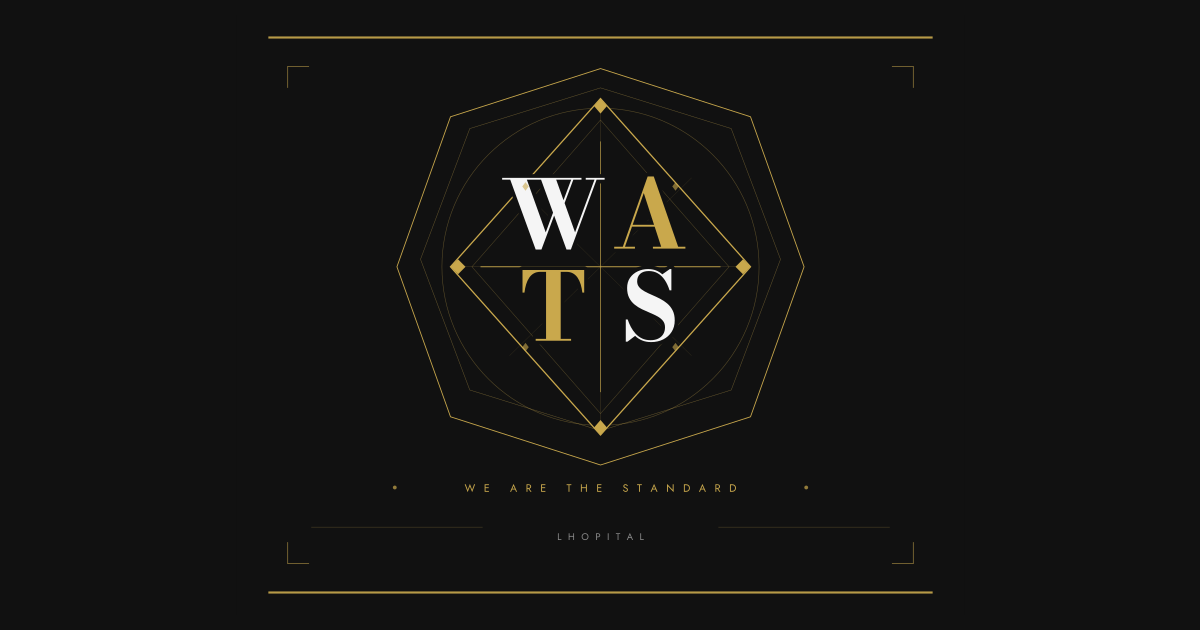
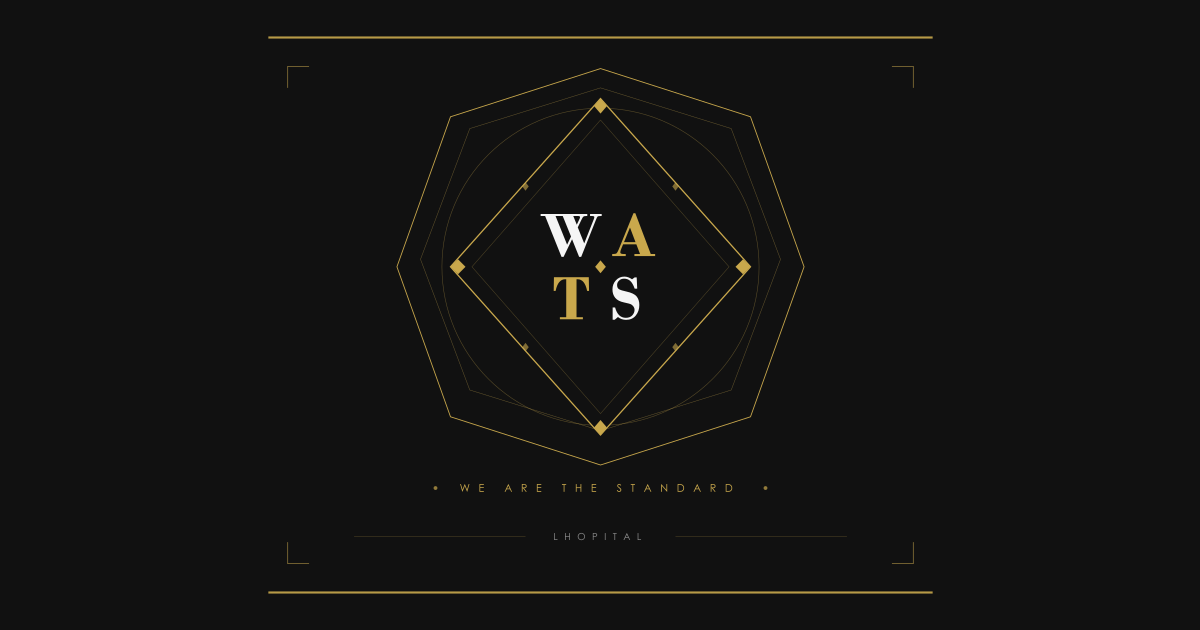
Usar el monograma WATS v3 (wats_monogram_lhopital_v3_contornos)
- public/brand/wats-seal.svg pasa a ser la v3 de Cloudinary, letras en contornos
- Los trazos del hero se extraen de ese SVG (scripts/build-wats-paths.cjs)
- Sello en hero y en Un mismo oficio con la geometría v3: sin cruces, diamante central
- Imagen Open Graph regenerada; se quitan opentype.js y fuentes de fontsource

Changed region(s): [[0.4008, 0.2714, 0.5858, 0.5429], [0.37, 0.754, 0.6167, 0.7841], [0.4625, 0.8444, 0.5242, 0.8746]]

diff --git a/src/lib/wats-paths.ts b/src/lib/wats-paths.ts
@@ -1,9 +1,9 @@
-// Generated by scripts/build-wats.cjs (opentype.js, Bodoni Moda 700 / Jost 400). Do not edit by hand.
+// Generated by scripts/build-wats-paths.cjs from public/brand/wats-seal.svg. Do not edit by hand.
 export const WATS_PATHS = {
-  "W": "M284.89 218.88L279.48 218.88L255.76 153.72L248.19 153.72L248.19 152L322.25 152L322.25 153.72L314.63 153.72L306.49 175.54L316.26 202.86L334.39 153.72L326.21 153.72L326.21 152L343.85 152L343.85 153.72L336.33 153.72L312.35 218.88L308.25 218.88L296.73 187.20L284.89 218.88ZM288.89 202.86L295.71 184.47L284.54 153.72L271.29 153.72L288.89 202.86ZM305.48 172.81L312.65 153.72L298.66 153.72L305.48 172.81Z",
-  "A": "M384.00 150.72L389.72 150.72L412.47 216.28L419.24 216.28L419.24 218L388.93 218L388.93 216.28L396.63 216.28L390.55 197.54L369.39 197.54L362.83 216.28L372.16 216.28L372.16 218L352.76 218L352.76 216.28L360.85 216.28L384.00 150.72ZM370.01 195.82L389.98 195.82L380.39 166.17L370.01 195.82Z",
-  "T": "M312.54 304L279.50 304L279.50 302.28L289.18 302.28L289.18 239.72L283.86 239.72Q280.34 239.72 277.76 241.17Q275.19 242.62 273.43 245.24Q271.67 247.86 270.59 251.40Q269.51 254.94 269.03 259.12L269.03 259.12L267.22 259.12L267.22 238L324.78 238L324.78 259.12L323.06 259.12Q322.58 254.94 321.50 251.40Q320.42 247.86 318.66 245.24Q316.90 242.62 314.33 241.17Q311.75 239.72 308.23 239.72L308.23 239.72L302.86 239.72L302.86 302.28L312.54 302.28L312.54 304Z",
-  "S": "M387.32 305.28L387.32 305.28Q382.44 305.28 378.74 303.71Q375.04 302.15 372.32 299.47L372.32 299.47L365.19 304.88L363.60 304.88L363.60 284.16L365.36 284.16Q366.55 287.76 368.38 291.22Q370.20 294.67 372.76 297.44Q375.31 300.22 378.74 301.87Q382.17 303.52 386.70 303.52L386.70 303.52Q390.88 303.52 393.92 302.02Q396.96 300.52 398.58 297.82Q400.21 295.11 400.21 291.46L400.21 291.46Q400.21 287.90 398.30 285.48Q396.38 283.06 393.24 281.32Q390.09 279.58 386.31 278.02Q382.52 276.46 378.76 274.65Q375 272.85 371.83 270.27Q368.66 267.70 366.75 263.94Q364.84 260.18 364.84 254.72L364.84 254.72Q364.84 249.22 367.56 245.28Q370.29 241.34 374.78 239.23Q379.27 237.12 384.42 237.12L384.42 237.12Q388.33 237.12 391.70 238.37Q395.06 239.63 397.70 242.05L397.70 242.05L404.70 237.12L406.15 237.12L406.15 256.96L404.44 256.96Q402.68 251.38 399.97 247.35Q397.26 243.32 393.55 241.15Q389.83 238.97 385.08 238.97L385.08 238.97Q379.84 238.97 377.02 241.61Q374.21 244.25 374.21 248.56L374.21 248.56Q374.21 251.77 376.10 253.99Q377.99 256.22 381.12 257.93Q384.24 259.65 388.00 261.25Q391.76 262.86 395.50 264.77Q399.24 266.69 402.37 269.35Q405.49 272.01 407.38 275.82Q409.28 279.62 409.28 285.08L409.28 285.08Q409.28 291.24 406.37 295.77Q403.47 300.30 398.50 302.79Q393.52 305.28 387.32 305.28Z",
-  "tagline": "M222.01 438L220.19 443.15L218.11 437.65L216.07 443.15L214.21 438L213.26 438L216.01 445.35L218.11 439.91L220.21 445.35L222.96 438L222.01 438ZM235.86 438L231.86 438L231.86 445L235.86 445L235.86 444.20L232.71 444.20L232.71 441.60L235.66 441.60L235.66 440.80L232.71 440.80L232.71 438.80L235.86 438.80L235.86 438ZM257.45 442.90L260.27 442.90L261.16 445L262.11 445L258.86 437.65L255.61 445L256.56 445L257.45 442.90ZM257.79 442.10L258.86 439.58L259.93 442.10L257.79 442.10ZM272.86 438L270.96 438L270.96 445L271.81 445L271.81 442.20L272.66 442.20L274.61 445L275.66 445L273.57 442.12Q273.84 442.06 274.08 441.94L274.08 441.94Q274.61 441.69 274.93 441.21Q275.24 440.74 275.24 440.10L275.24 440.10Q275.24 439.45 274.93 438.98Q274.61 438.51 274.08 438.25Q273.54 438 272.86 438L272.86 438ZM272.86 441.45L271.81 441.45L271.81 438.75L272.86 438.75Q273.31 438.75 273.66 438.91Q274 439.07 274.20 439.37Q274.39 439.67 274.39 440.10Q274.39 440.53 274.20 440.83Q274 441.13 273.66 441.29Q273.31 441.45 272.86 441.45L272.86 441.45ZM288.56 438L284.56 438L284.56 445L288.56 445L288.56 444.20L285.41 444.20L285.41 441.60L288.36 441.60L288.36 440.80L285.41 440.80L285.41 438.80L288.56 438.80L288.56 438ZM308.36 438L308.36 438.80L310.16 438.80L310.16 445L311.01 445L311.01 438.80L312.81 438.80L312.81 438L308.36 438ZM327.26 438L326.41 438L326.41 440.80L322.56 440.80L322.56 438L321.71 438L321.71 445L322.56 445L322.56 441.60L326.41 441.60L326.41 445L327.26 445L327.26 438ZM340.86 438L336.86 438L336.86 445L340.86 445L340.86 444.20L337.71 444.20L337.71 441.60L340.66 441.60L340.66 440.80L337.71 440.80L337.71 438.80L340.86 438.80L340.86 438ZM361.62 442.88L361.62 442.88L360.94 443.34Q361.17 443.80 361.54 444.20Q361.90 444.61 362.38 444.86Q362.87 445.10 363.44 445.10L363.44 445.10Q363.86 445.10 364.25 444.96Q364.63 444.82 364.94 444.56Q365.24 444.30 365.42 443.93Q365.59 443.56 365.59 443.10L365.59 443.10Q365.59 442.62 365.42 442.27Q365.25 441.93 364.99 441.69Q364.72 441.44 364.41 441.28Q364.10 441.12 363.82 441.02L363.82 441.02Q363.21 440.81 362.86 440.60Q362.50 440.38 362.35 440.13Q362.20 439.89 362.20 439.60L362.20 439.60Q362.20 439.26 362.46 438.99Q362.72 438.71 363.29 438.71L363.29 438.71Q363.70 438.71 363.99 438.87Q364.27 439.03 364.47 439.28Q364.67 439.53 364.80 439.79L364.80 439.79L365.53 439.37Q365.36 439 365.06 438.67Q364.76 438.33 364.33 438.12Q363.91 437.90 363.34 437.90L363.34 437.90Q362.75 437.90 362.29 438.13Q361.83 438.37 361.57 438.78Q361.31 439.19 361.31 439.71L361.31 439.71Q361.31 440.19 361.50 440.52Q361.68 440.85 361.97 441.07Q362.26 441.30 362.58 441.44Q362.90 441.59 363.16 441.68L363.16 441.68Q363.56 441.82 363.92 442.00Q364.27 442.17 364.49 442.45Q364.71 442.73 364.71 443.20L364.71 443.20Q364.71 443.68 364.37 443.99Q364.03 444.30 363.47 444.30L363.47 444.30Q363.05 444.30 362.72 444.12Q362.39 443.94 362.13 443.62Q361.86 443.30 361.62 442.88ZM374.14 438L374.14 438.80L375.94 438.80L375.94 445L376.79 445L376.79 438.80L378.59 438.80L378.59 438L374.14 438ZM388.58 442.90L391.40 442.90L392.29 445L393.24 445L389.99 437.65L386.74 445L387.69 445L388.58 442.90ZM388.92 442.10L389.99 439.58L391.06 442.10L388.92 442.10ZM408.24 438L407.39 438L407.39 443.21L402.09 437.65L402.09 445L402.94 445L402.94 439.79L408.24 445.35L408.24 438ZM419.94 438L417.84 438L417.84 445L419.94 445Q420.96 445 421.75 444.56Q422.54 444.12 422.99 443.33Q423.44 442.55 423.44 441.50Q423.44 440.45 422.99 439.67Q422.54 438.88 421.75 438.44Q420.96 438 419.94 438L419.94 438ZM419.94 444.15L418.69 444.15L418.69 438.85L419.94 438.85Q420.53 438.85 421.02 439.04Q421.51 439.22 421.86 439.56Q422.21 439.91 422.40 440.40Q422.59 440.89 422.59 441.50Q422.59 442.11 422.40 442.60Q422.21 443.09 421.86 443.44Q421.51 443.78 421.02 443.96Q420.53 444.15 419.94 444.15L419.94 444.15ZM433.73 442.90L436.55 442.90L437.44 445L438.39 445L435.14 437.65L431.89 445L432.84 445L433.73 442.90ZM434.07 442.10L435.14 439.58L436.21 442.10L434.07 442.10ZM449.14 438L447.24 438L447.24 445L448.09 445L448.09 442.20L448.94 442.20L450.89 445L451.94 445L449.85 442.12Q450.12 442.06 450.36 441.94L450.36 441.94Q450.89 441.69 451.21 441.21Q451.52 440.74 451.52 440.10L451.52 440.10Q451.52 439.45 451.21 438.98Q450.89 438.51 450.36 438.25Q449.82 438 449.14 438L449.14 438ZM449.14 441.45L448.09 441.45L448.09 438.75L449.14 438.75Q449.59 438.75 449.94 438.91Q450.28 439.07 450.48 439.37Q450.67 439.67 450.67 440.10Q450.67 440.53 450.48 440.83Q450.28 441.13 449.94 441.29Q449.59 441.45 449.14 441.45L449.14 441.45ZM462.94 438L460.84 438L460.84 445L462.94 445Q463.96 445 464.75 444.56Q465.54 444.12 465.99 443.33Q466.44 442.55 466.44 441.50Q466.44 440.45 465.99 439.67Q465.54 438.88 464.75 438.44Q463.96 438 462.94 438L462.94 438ZM462.94 444.15L461.69 444.15L461.69 438.85L462.94 438.85Q463.53 438.85 464.02 439.04Q464.51 439.22 464.86 439.56Q465.21 439.91 465.40 440.40Q465.59 440.89 465.59 441.50Q465.59 442.11 465.40 442.60Q465.21 443.09 464.86 443.44Q464.51 443.78 464.02 443.96Q463.53 444.15 462.94 444.15L462.94 444.15Z",
-  "brand": "M301.03 483.70L300.27 483.70L300.27 490L303.51 490L303.51 489.28L301.03 489.28L301.03 483.70ZM315.31 483.70L314.55 483.70L314.55 486.22L311.08 486.22L311.08 483.70L310.32 483.70L310.32 490L311.08 490L311.08 486.94L314.55 486.94L314.55 490L315.31 490L315.31 483.70ZM323.20 486.85L323.20 486.85Q323.20 486.14 323.51 485.58Q323.82 485.02 324.36 484.70Q324.90 484.38 325.59 484.38L325.59 484.38Q326.28 484.38 326.82 484.70Q327.35 485.02 327.66 485.58Q327.97 486.14 327.97 486.85L327.97 486.85Q327.97 487.56 327.66 488.12Q327.35 488.68 326.82 489.00Q326.28 489.32 325.59 489.32L325.59 489.32Q324.90 489.32 324.36 489.00Q323.82 488.68 323.51 488.12Q323.20 487.56 323.20 486.85ZM322.39 486.85L322.39 486.85Q322.39 487.53 322.63 488.13Q322.87 488.72 323.30 489.16Q323.73 489.60 324.32 489.84Q324.90 490.09 325.59 490.09L325.59 490.09Q326.28 490.09 326.86 489.84Q327.44 489.60 327.87 489.16Q328.30 488.72 328.54 488.13Q328.78 487.53 328.78 486.85L328.78 486.85Q328.78 486.16 328.54 485.57Q328.30 484.98 327.87 484.54Q327.44 484.11 326.86 483.86Q326.28 483.61 325.59 483.61L325.59 483.61Q324.90 483.61 324.32 483.86Q323.73 484.11 323.30 484.54Q322.87 484.98 322.63 485.57Q322.39 486.16 322.39 486.85ZM337.57 483.70L335.86 483.70L335.86 490L336.63 490L336.63 487.48L337.57 487.48Q338.18 487.48 338.67 487.25Q339.15 487.02 339.43 486.59Q339.71 486.17 339.71 485.59L339.71 485.59Q339.71 485.00 339.43 484.58Q339.15 484.16 338.67 483.93Q338.18 483.70 337.57 483.70L337.57 483.70ZM337.57 486.76L336.63 486.76L336.63 484.42L337.57 484.42Q338.18 484.42 338.57 484.71Q338.95 485.00 338.95 485.59L338.95 485.59Q338.95 486.17 338.57 486.46Q338.18 486.76 337.57 486.76L337.57 486.76ZM347.56 483.70L346.79 483.70L346.79 490L347.56 490L347.56 483.70ZM354.37 483.70L354.37 484.42L355.99 484.42L355.99 490L356.75 490L356.75 484.42L358.37 484.42L358.37 483.70L354.37 483.70ZM366.16 488.11L368.70 488.11L369.50 490L370.36 490L367.43 483.38L364.51 490L365.36 490L366.16 488.11ZM366.47 487.39L367.43 485.12L368.40 487.39L366.47 487.39ZM377.89 483.70L377.12 483.70L377.12 490L380.36 490L380.36 489.28L377.89 489.28L377.89 483.70Z"
+  "W": "M318.790625 198.193359375 324.796484375 213.193359375 333.26328125 191.806640625Q333.26328125 191.748046875 333.7466796875 190.6201171875Q334.230078125 189.4921875 334.230078125 188.583984375Q334.230078125 187.6171875 332.237890625 187.6171875H330.245703125V185.712890625H341.11484375V187.6171875H340.206640625Q337.83359375 187.6171875 337.30625 188.0712890625Q336.77890625 188.525390625 335.665625 191.337890625L321.983984375 225.732421875H320.050390625L313.45859375 209.326171875L305.5484375 225.732421875H303.61484375L288.321875 187.6171875H284.132421875V185.712890625H327.667578125V187.6171875H326.671484375Q324.7671875 187.6171875 324.093359375 188.115234375Q323.41953125 188.61328125 322.335546875 190.869140625ZM314.601171875 187.6171875 317.853125 195.732421875 320.37265625 190.4296875Q320.9 189.345703125 320.9 188.701171875Q320.9 187.6171875 319.171484375 187.6171875ZM298.0484375 187.6171875 308.8296875 214.39453125 312.491796875 206.748046875 304.757421875 187.6171875Z",
+  "A": "M373.466796875 214.013671875H361.103515625L359.43359375 218.02734375Q358.466796875 220.4296875 358.466796875 221.513671875Q358.466796875 223.06640625 361.396484375 223.06640625H363.564453125V225.0H350.908203125V223.06640625H352.05078125Q354.306640625 223.06640625 355.09765625 222.3046875Q355.888671875 221.54296875 357.03125 218.759765625L370.771484375 184.98046875H372.5L386.9140625 223.06640625H390.986328125V225.0H371.650390625V223.06640625H376.89453125ZM361.953125 211.9921875H372.67578125L367.51953125 198.369140625Z",
+  "T": "M296.552734375 244.712890625H329.072265625L329.306640625 257.544921875H327.51953125Q325.3515625 246.6171875 318.525390625 246.6171875H317.6171875V282.06640625H323.564453125V284.0H302.08984375V282.06640625H308.0078125V246.6171875H307.12890625Q300.302734375 246.6171875 298.10546875 257.544921875H296.318359375Z",
+  "S": "M373.78515625 244.888671875 374.25390625 255.435546875H371.91015625Q370.064453125 250.220703125 367.7060546875 248.1552734375Q365.34765625 246.08984375 362.0078125 246.08984375Q359.166015625 246.08984375 357.3203125 247.876953125Q355.474609375 249.6640625 355.474609375 252.0078125Q355.474609375 254.908203125 357.408203125 255.9921875Q359.341796875 257.076171875 364.05859375 258.072265625Q371.294921875 259.625 373.7705078125 262.7451171875Q376.24609375 265.865234375 376.24609375 270.669921875Q376.24609375 276.32421875 372.9794921875 280.42578125Q369.712890625 284.52734375 363.82421875 284.52734375Q359.634765625 284.52734375 356.265625 281.890625Q354.625 283.1796875 353.306640625 284.41015625H351.34375V272.955078125H353.62890625Q356.20703125 282.623046875 363.6484375 282.623046875Q367.57421875 282.623046875 369.68359375 280.30859375Q371.79296875 277.994140625 371.79296875 275.123046875Q371.79296875 273.51171875 370.8701171875 272.22265625Q369.947265625 270.93359375 368.716796875 270.171875Q367.486328125 269.41015625 361.919921875 268.267578125Q356.353515625 267.125 353.7607421875 263.990234375Q351.16796875 260.85546875 351.16796875 256.16796875Q351.16796875 251.12890625 354.3466796875 247.642578125Q357.525390625 244.15625 362.271484375 244.15625Q365.875 244.15625 369.44921875 246.67578125Q370.591796875 246.001953125 371.91015625 244.888671875Z",
+  "tagline": "M209.0048828125 437.8173828125H209.7421875L211.2021484375 442.9931640625L213.2626953125 437.8173828125H213.4091796875L215.4453125 442.9931640625L216.9345703125 437.8173828125H217.6669921875L215.6064453125 445.0H215.4697265625L213.3408203125 439.5654296875L211.16796875 445.0H211.03125Z M227.0146484375 437.8173828125H231.130859375V438.525390625H227.732421875V440.771484375H231.1015625V441.474609375H227.732421875V444.2919921875H231.1015625V445.0H227.0146484375Z M254.07421875 437.8173828125 257.423828125 445.0H256.65234375L255.5244140625 442.63671875H252.4287109375L251.3056640625 445.0H250.5048828125L253.8984375 437.8173828125ZM253.986328125 439.3408203125 252.7509765625 441.943359375H255.20703125Z M266.576171875 437.8173828125H268.0068359375Q269.203125 437.8173828125 269.6279296875 437.9150390625Q270.267578125 438.0615234375 270.66796875 438.54248046875Q271.068359375 439.0234375 271.068359375 439.7265625Q271.068359375 440.3125 270.79248046875 440.7568359375Q270.5166015625 441.201171875 270.00390625 441.42822265625Q269.4912109375 441.6552734375 268.587890625 441.66015625L271.1708984375 445.0H270.2822265625L267.7041015625 441.66015625H267.2939453125V445.0H266.576171875ZM267.2939453125 438.5205078125V440.9619140625L268.529296875 440.9716796875Q269.2470703125 440.9716796875 269.59130859375 440.8349609375Q269.935546875 440.6982421875 270.12841796875 440.39794921875Q270.3212890625 440.09765625 270.3212890625 439.7265625Q270.3212890625 439.365234375 270.1259765625 439.06982421875Q269.9306640625 438.7744140625 269.61328125 438.6474609375Q269.2958984375 438.5205078125 268.55859375 438.5205078125Z M280.611328125 437.8173828125H284.7275390625V438.525390625H281.3291015625V440.771484375H284.6982421875V441.474609375H281.3291015625V444.2919921875H284.6982421875V445.0H280.611328125Z M304.0234375 438.515625V437.8173828125H307.9638671875V438.515625H306.3623046875V445.0H305.6298828125V438.515625Z M316.984375 437.8173828125H317.70703125V440.830078125H321.359375V437.8173828125H322.08203125V445.0H321.359375V441.533203125H317.70703125V445.0H316.984375Z M331.830078125 437.8173828125H335.9462890625V438.525390625H332.5478515625V440.771484375H335.9169921875V441.474609375H332.5478515625V444.2919921875H335.9169921875V445.0H331.830078125Z M355.212890625 443.662109375 355.8232421875 443.2958984375Q356.4677734375 444.482421875 357.3125 444.482421875Q357.673828125 444.482421875 357.9912109375 444.31396484375Q358.30859375 444.1455078125 358.474609375 443.8623046875Q358.640625 443.5791015625 358.640625 443.26171875Q358.640625 442.900390625 358.396484375 442.5537109375Q358.0595703125 442.0751953125 357.166015625 441.4013671875Q356.267578125 440.72265625 356.0478515625 440.419921875Q355.6669921875 439.912109375 355.6669921875 439.3212890625Q355.6669921875 438.8525390625 355.8916015625 438.466796875Q356.1162109375 438.0810546875 356.52392578125 437.85888671875Q356.931640625 437.63671875 357.41015625 437.63671875Q357.91796875 437.63671875 358.35986328125 437.88818359375Q358.8017578125 438.1396484375 359.294921875 438.8134765625L358.708984375 439.2578125Q358.3037109375 438.720703125 358.01806640625 438.5498046875Q357.732421875 438.37890625 357.3955078125 438.37890625Q356.9609375 438.37890625 356.68505859375 438.642578125Q356.4091796875 438.90625 356.4091796875 439.2919921875Q356.4091796875 439.5263671875 356.5068359375 439.74609375Q356.6044921875 439.9658203125 356.86328125 440.224609375Q357.0048828125 440.361328125 357.791015625 440.9423828125Q358.7236328125 441.630859375 359.0703125 442.16796875Q359.4169921875 442.705078125 359.4169921875 443.2470703125Q359.4169921875 444.0283203125 358.82373046875 444.6044921875Q358.23046875 445.1806640625 357.380859375 445.1806640625Q356.7265625 445.1806640625 356.1943359375 444.83154296875Q355.662109375 444.482421875 355.212890625 443.662109375Z M368.22265625 438.515625V437.8173828125H372.1630859375V438.515625H370.5615234375V445.0H369.8291015625V438.515625Z M384.1279296875 437.8173828125 387.4775390625 445.0H386.7060546875L385.578125 442.63671875H382.482421875L381.359375 445.0H380.55859375L383.9521484375 437.8173828125ZM384.0400390625 439.3408203125 382.8046875 441.943359375H385.2607421875Z M396.595703125 445.0V437.8173828125H396.751953125L401.52734375 443.3154296875V437.8173828125H402.2353515625V445.0H402.07421875L397.337890625 439.5703125V445.0Z M411.98828125 445.0V437.8173828125H413.4775390625Q415.0888671875 437.8173828125 415.81640625 438.076171875Q416.861328125 438.4423828125 417.44970703125 439.345703125Q418.0380859375 440.2490234375 418.0380859375 441.4990234375Q418.0380859375 442.578125 417.57177734375 443.3984375Q417.10546875 444.21875 416.36083984375 444.609375Q415.6162109375 445.0 414.2734375 445.0ZM412.6767578125 444.3212890625H413.5068359375Q414.99609375 444.3212890625 415.572265625 444.1357421875Q416.3828125 443.8720703125 416.8466796875 443.18603515625Q417.310546875 442.5 417.310546875 441.5087890625Q417.310546875 440.46875 416.8076171875 439.7314453125Q416.3046875 438.994140625 415.40625 438.720703125Q414.732421875 438.515625 413.1845703125 438.515625H412.6767578125Z M430.3642578125 437.8173828125 433.7138671875 445.0H432.9423828125L431.814453125 442.63671875H428.71875L427.595703125 445.0H426.794921875L430.1884765625 437.8173828125ZM430.2763671875 439.3408203125 429.041015625 441.943359375H431.4970703125Z M442.8662109375 437.8173828125H444.296875Q445.4931640625 437.8173828125 445.91796875 437.9150390625Q446.5576171875 438.0615234375 446.9580078125 438.54248046875Q447.3583984375 439.0234375 447.3583984375 439.7265625Q447.3583984375 440.3125 447.08251953125 440.7568359375Q446.806640625 441.201171875 446.2939453125 441.42822265625Q445.78125 441.6552734375 444.8779296875 441.66015625L447.4609375 445.0H446.572265625L443.994140625 441.66015625H443.583984375V445.0H442.8662109375ZM443.583984375 438.5205078125V440.9619140625L444.8193359375 440.9716796875Q445.537109375 440.9716796875 445.88134765625 440.8349609375Q446.2255859375 440.6982421875 446.41845703125 440.39794921875Q446.611328125 440.09765625 446.611328125 439.7265625Q446.611328125 439.365234375 446.416015625 439.06982421875Q446.220703125 438.7744140625 445.9033203125 438.6474609375Q445.5859375 438.5205078125 444.8486328125 438.5205078125Z M456.896484375 445.0V437.8173828125H458.3857421875Q459.9970703125 437.8173828125 460.724609375 438.076171875Q461.76953125 438.4423828125 462.35791015625 439.345703125Q462.9462890625 440.2490234375 462.9462890625 441.4990234375Q462.9462890625 442.578125 462.47998046875 443.3984375Q462.013671875 444.21875 461.26904296875 444.609375Q460.5244140625 445.0 459.181640625 445.0ZM457.5849609375 444.3212890625H458.4150390625Q459.904296875 444.3212890625 460.48046875 444.1357421875Q461.291015625 443.8720703125 461.7548828125 443.18603515625Q462.21875 442.5 462.21875 441.5087890625Q462.21875 440.46875 461.7158203125 439.7314453125Q461.212890625 438.994140625 460.314453125 438.720703125Q459.640625 438.515625 458.0927734375 438.515625H457.5849609375Z",
+  "brand": "M296.718994140625 483.53564453125H297.369384765625V489.3759765625H299.852294921875V490.0H296.718994140625Z M306.867431640625 483.53564453125H307.517822265625V486.2470703125H310.804931640625V483.53564453125H311.455322265625V490.0H310.804931640625V486.8798828125H307.517822265625V490.0H306.867431640625Z M322.104736328125 483.373046875Q323.572509765625 483.373046875 324.561279296875 484.35302734375Q325.550048828125 485.3330078125 325.550048828125 486.765625Q325.550048828125 488.18505859375 324.5634765625 489.173828125Q323.576904296875 490.16259765625 322.157470703125 490.16259765625Q320.720458984375 490.16259765625 319.731689453125 489.17822265625Q318.742919921875 488.19384765625 318.742919921875 486.79638671875Q318.742919921875 485.86474609375 319.193359375 485.0693359375Q319.643798828125 484.27392578125 320.421630859375 483.823486328125Q321.199462890625 483.373046875 322.104736328125 483.373046875ZM322.135498046875 484.005859375Q321.419189453125 484.005859375 320.777587890625 484.37939453125Q320.135986328125 484.7529296875 319.775634765625 485.3857421875Q319.415283203125 486.0185546875 319.415283203125 486.79638671875Q319.415283203125 487.94775390625 320.212890625 488.740966796875Q321.010498046875 489.5341796875 322.135498046875 489.5341796875Q322.886962890625 489.5341796875 323.5263671875 489.16943359375Q324.165771484375 488.8046875 324.52392578125 488.171875Q324.882080078125 487.5390625 324.882080078125 486.765625Q324.882080078125 485.99658203125 324.52392578125 485.374755859375Q324.165771484375 484.7529296875 323.515380859375 484.37939453125Q322.864990234375 484.005859375 322.135498046875 484.005859375Z M332.842041015625 483.53564453125H334.129638671875Q335.237060546875 483.53564453125 335.623779296875 483.63232421875Q336.177490234375 483.7685546875 336.529052734375 484.192626953125Q336.880615234375 484.61669921875 336.880615234375 485.25830078125Q336.880615234375 485.904296875 336.537841796875 486.323974609375Q336.195068359375 486.74365234375 335.593017578125 486.888671875Q335.153564453125 486.994140625 333.949462890625 486.994140625H333.488037109375V490.0H332.842041015625ZM333.488037109375 484.1640625V486.361328125L334.582275390625 486.37451171875Q335.245849609375 486.37451171875 335.553466796875 486.253662109375Q335.861083984375 486.1328125 336.036865234375 485.862548828125Q336.212646484375 485.59228515625 336.212646484375 485.25830078125Q336.212646484375 484.93310546875 336.036865234375 484.662841796875Q335.861083984375 484.392578125 335.5732421875 484.2783203125Q335.285400390625 484.1640625 334.630615234375 484.1640625Z M344.080322265625 483.53564453125H344.726318359375V490.0H344.080322265625Z M351.565673828125 484.1640625V483.53564453125H355.112060546875V484.1640625H353.670654296875V490.0H353.011474609375V484.1640625Z M364.680419921875 483.53564453125 367.695068359375 490.0H367.000732421875L365.985595703125 487.873046875H363.199462890625L362.188720703125 490.0H361.468017578125L364.522216796875 483.53564453125ZM364.601318359375 484.90673828125 363.489501953125 487.2490234375H365.699951171875Z M374.697021484375 483.53564453125H375.347412109375V489.3759765625H377.830322265625V490.0H374.697021484375Z"
 } as const;

diff --git a/src/components/WatsSeal.tsx b/src/components/WatsSeal.tsx
@@ -3,7 +3,7 @@ import { WATS_PATHS } from "@/lib/wats-paths";
 const GOLD = "#C9A84C";
 const BG = "#111111";
 const TEXT = "#F5F5F5";
-const MUTED = "#8A8A8A";
+const MUTED = "#8C8C8C";
 
 type Props = {
   // "full": tarjeta completa con lema y LHOPITAL. "mark": solo el emblema octagonal.
@@ -13,13 +13,13 @@ type Props = {
   title?: string;
 };
 
-// Sello WATS reconstruido: geometría original, letras como trazos (sin <text>, sin máscara).
-// Las letras llevan un halo del color de fondo que corta las líneas finas detrás de ellas.
+// Sello WATS v3 (Cloudinary: wats_monogram_lhopital_v3_contornos), dibujado en línea para
+// poder animarlo. Letras como contornos: sin <text> ni máscara. Misma geometría que
+// public/brand/wats-seal.svg; los trazos vienen de src/lib/wats-paths.ts.
 export default function WatsSeal({ variant = "full", animated = false, className, title }: Props) {
   const viewBox = variant === "mark" ? "140 40 400 390" : "0 0 680 560";
   const geo = animated ? "wats-fade wats-fade--geometry" : undefined;
   const letters = animated ? "wats-fade wats-fade--letters" : undefined;
-  const halo = { stroke: BG, strokeWidth: 7, strokeLinejoin: "round" as const, paintOrder: "stroke" };
 
   return (
     <svg
@@ -63,22 +63,22 @@ export default function WatsSeal({ variant = "full", animated = false, className
         pathLength={1}
         className={animated ? "wats-draw" : undefined}
       />
-
-      <g fill="none" stroke={GOLD} className={geo}>
-        <polygon points="340,98 460,235 340,372 220,235" strokeWidth=".4" opacity=".4" />
-        <line x1="340" y1="78" x2="340" y2="392" strokeWidth=".4" opacity=".3" />
-        <line x1="200" y1="235" x2="480" y2="235" strokeWidth=".4" opacity=".3" />
-        <line x1="255" y1="152" x2="425" y2="318" strokeWidth=".3" opacity=".2" />
-        <line x1="425" y1="152" x2="255" y2="318" strokeWidth=".3" opacity=".2" />
-        <line x1="228" y1="235" x2="452" y2="235" strokeWidth=".8" />
-        <line x1="340" y1="118" x2="340" y2="352" strokeWidth=".8" opacity=".7" />
-      </g>
+      <polygon
+        points="340,98 460,235 340,372 220,235"
+        fill="none"
+        stroke={GOLD}
+        strokeWidth=".4"
+        opacity=".4"
+        className={geo}
+      />
 
       <g className={letters}>
-        <path d={WATS_PATHS.W} fill={TEXT} {...halo} />
-        <path d={WATS_PATHS.A} fill={GOLD} {...halo} />
-        <path d={WATS_PATHS.T} fill={GOLD} {...halo} />
-        <path d={WATS_PATHS.S} fill={TEXT} {...halo} />
+        <path d={WATS_PATHS.W} fill={TEXT} />
+        <path d={WATS_PATHS.A} fill={GOLD} />
+        <path d={WATS_PATHS.T} fill={GOLD} />
+        <path d={WATS_PATHS.S} fill={TEXT} />
+        {/* Diamante central: el punto donde se fija el estándar. */}
+        <polygon points="340,229 345,235 340,241 335,235" fill={GOLD} />
       </g>
 
       <g fill={GOLD} className={geo}>
@@ -98,14 +98,14 @@ export default function WatsSeal({ variant = "full", animated = false, className
         <g className={letters}>
           <g fill={GOLD}>
             <path d={WATS_PATHS.tagline} />
-            <circle cx="148" cy="441" r="1.8" opacity=".7" />
-            <circle cx="532" cy="441" r="1.8" opacity=".7" />
-          </g>
-          <g stroke={GOLD} strokeWidth=".4" opacity=".4">
-            <line x1="70" y1="478" x2="230" y2="478" />
-            <line x1="450" y1="478" x2="610" y2="478" />
+            <circle cx="186" cy="441.5" r="1.8" opacity=".7" />
+            <circle cx="494" cy="441.5" r="1.8" opacity=".7" />
           </g>
           <path d={WATS_PATHS.brand} fill={MUTED} />
+          <g stroke={GOLD} strokeWidth=".4" opacity=".4">
+            <line x1="110" y1="486.5" x2="270" y2="486.5" />
+            <line x1="410" y1="486.5" x2="570" y2="486.5" />
+          </g>
         </g>
       )}
     </svg>

diff --git a/README.md b/README.md
@@ -39,8 +39,8 @@ Para cambiar una foto o un logo, súbelo a Cloudinary y actualiza su public ID e
 
 `public/` solo contiene lo que se genera desde código:
 
-- `public/brand/wats-seal.svg` — sello WATS reconstruido: letras convertidas a trazos con Bodoni Moda Bold y Jost, sin `<text>` ni máscara
-- `src/lib/wats-paths.ts` — los mismos trazos, para el componente animado del hero
+- `public/brand/wats-seal.svg` — sello WATS v3 (copia de `wats_monogram_lhopital_v3_contornos` en Cloudinary), letras en contornos
+- `src/lib/wats-paths.ts` — los trazos de las letras extraídos de ese SVG, para el sello animado del hero
 - `public/og-image.png` — imagen Open Graph de 1200×630
 - `public/textures/grain.png` — textura de grano para las fotos
 
